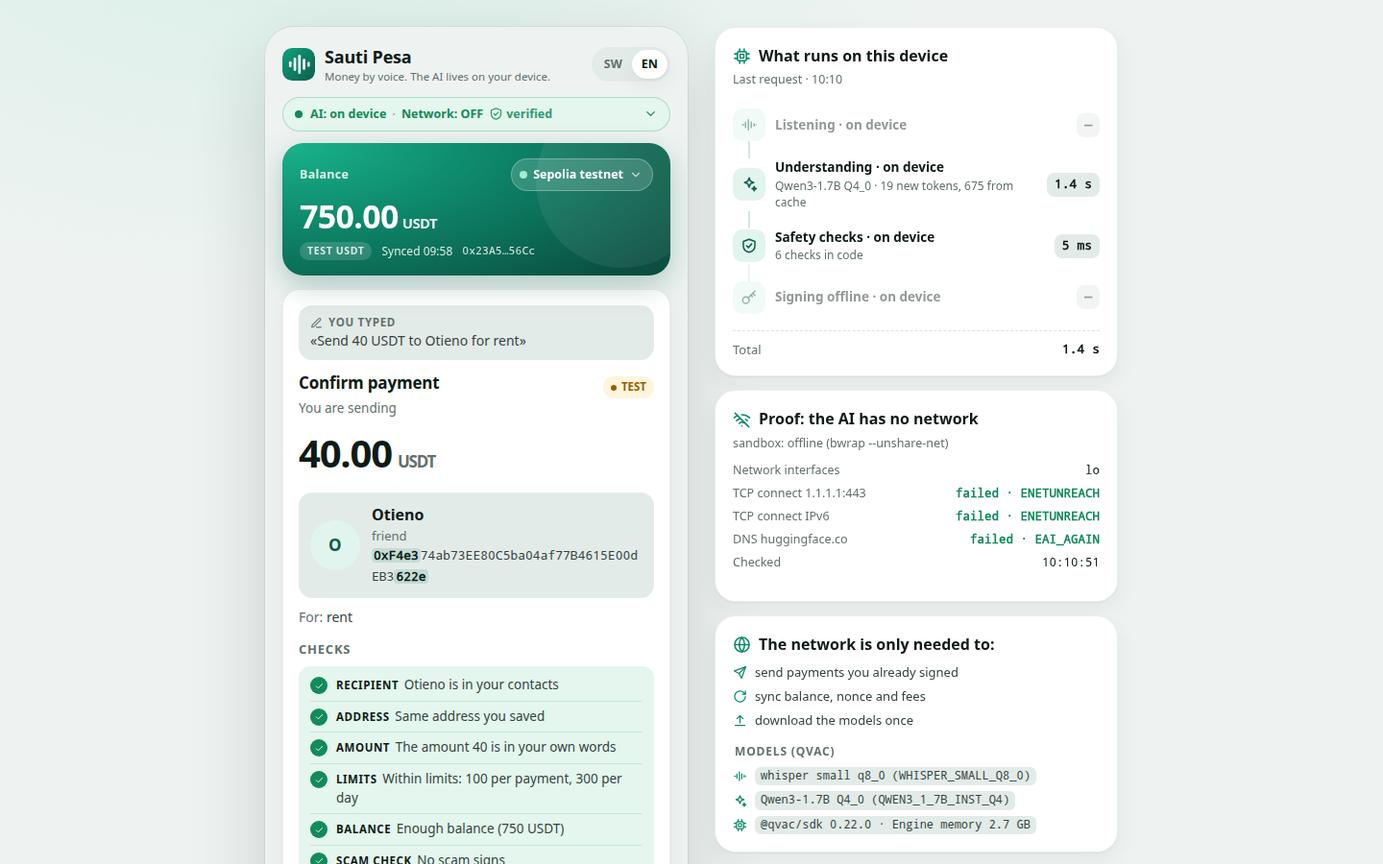
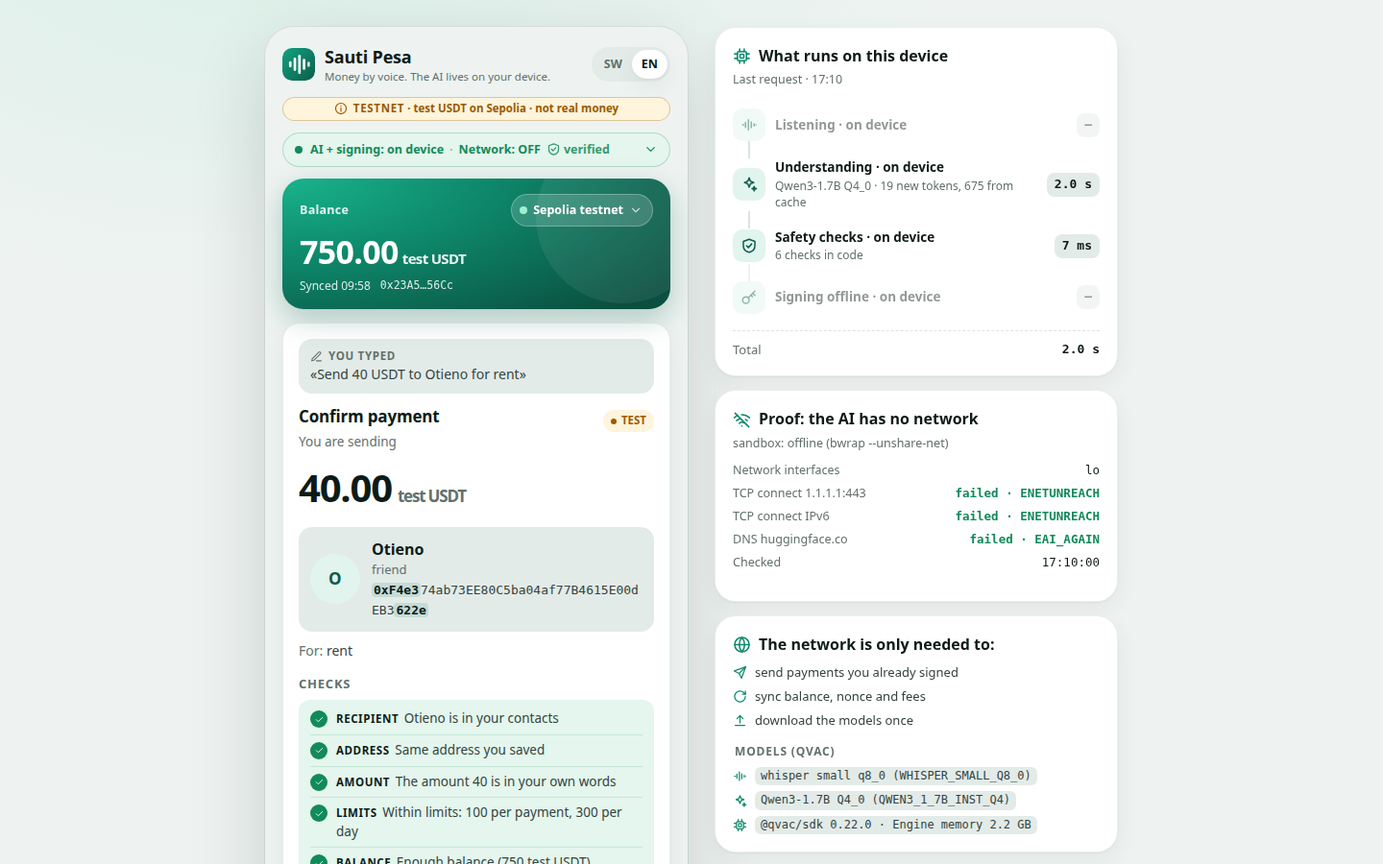
Label test money everywhere; keep offline AI vs online broadcast explicit
- UI: a persistent header badge "TESTNET · test USDT on Sepolia · not real money" (local devnet wording on the
  devnet, taken from the engine status; Swahili too), and every amount reads "test USDT" ("USDT ya majaribio").
- The status pill says "AI + signing: on device"; the confirm card and outbox say only the broadcast needs internet.
- CLI, netsync and broadcast output label amounts "test USDT".
- README: a note near the demo link that every USDT amount (app, video, tx table) is a worthless test token
  (Sepolia test USDT 0xaA8E...33D0, devnet MockUSDT) and that only the broadcast needs internet; the main demo
  link points at the v1.2 labelled cut, v1.0 kept as the original cut.
- Screenshots in docs/ retaken; screenshots.py reloads the page through about:blank (the key-in-fragment
  hardening made a second goto a same-document navigation).

diff --git a/ui/app.js b/ui/app.js
@@ -140,10 +140,23 @@ function renderChrome () {
   document.documentElement.lang = S.lang
   $('tagline').textContent = t('tagline')
   for (const b of $('langSeg').querySelectorAll('button')) b.setAttribute('aria-pressed', String(b.dataset.lang === S.lang))
+  renderTestnet()
   renderPill()
   renderBalance()
   renderTabs()
   renderSide()
+}
+
+// Persistent header badge: every amount in this app is a TEST token on a test network (never real money). The
+// network comes from the engine's status (or the person's saved choice); until it is known, no network is named.
+function renderTestnet () {
+  const el = $('testnet')
+  if (!el) return
+  const net = S.network || S.status?.network?.id || null
+  const sig = `${S.lang}|${net}`
+  if (el.dataset.sig === sig) return
+  el.dataset.sig = sig
+  el.replaceChildren(icon('info'), h('span', null, h('b', { text: t('testnetTag') }), ` · ${t('testnetLine', net)} · ${t('notReal')}`))
 }
 
 function renderPill () {
@@ -187,9 +200,8 @@ function renderBalance () {
       h('span', { class: 'lbl', text: t('balance') }),
       h('button', { class: 'net-chip', id: 'netChip', type: 'button', 'aria-haspopup': 'dialog', 'aria-label': `${t('networkMenu')}: ${t(`net_${netId()}`)}`, onclick: openNetMenu },
         h('span', { class: 'dot' }), t(`net_${netId()}`), icon('chev'))),
-    h('div', { class: 'amt' }, c?.usdt === null || c?.usdt === undefined ? '—' : fmtAmt(c.usdt), h('small', { text: 'USDT' })),
+    h('div', { class: 'amt' }, c?.usdt === null || c?.usdt === undefined ? '—' : fmtAmt(c.usdt), h('small', { text: t('unit') })),
     h('div', { class: 'meta' },
-      h('span', { class: 'badge', text: t('testUsdt') }),
       h('span', { text: c?.syncedAt ? `${t('synced')} ${fmtTime(c.syncedAt)}` : t('neverSynced') }),
       st?.wallet ? h('code', { text: st.wallet.short }) : null)
   )
@@ -442,7 +454,7 @@ function resultView () {
   const passed = v.groups.filter((g) => g.status === 'ok')
   if (v.hardBlock) {
     kids.push(h('div', { class: 'banner bad', style: 'margin-top:12px' }, h('span', { class: 'ic' }, icon('x')), h('div', null, h('b', { text: t('blockedTitle') }), h('span', { text: t('blockedSub') }))))
-    if (v.amount) kids.push(h('div', { class: 'amount-big' }, fmtAmt(v.amount), h('small', { text: 'USDT' })))
+    if (v.amount) kids.push(h('div', { class: 'amount-big' }, fmtAmt(v.amount), h('small', { text: t('unit') })))
     kids.push(payeeNode(v))
     kids.push(h('h3', { text: t('checks') }), h('div', { class: 'groups' }, flagged.map(groupNode)), passedList(passed))
     kids.push(flagsNode(v.scamFlags, v.aiFlags, v.aiNote))
@@ -451,7 +463,7 @@ function resultView () {
   }
   if (v.amountQuestion || v.contactQuestion) {
     kids.push(h('div', { class: 'confirm-top', style: 'margin-top:12px' }, h('h2', { text: t('questionTitle') })))
-    if (v.amount && !v.amountQuestion) kids.push(h('div', { class: 'amount-big' }, fmtAmt(v.amount), h('small', { text: 'USDT' })))
+    if (v.amount && !v.amountQuestion) kids.push(h('div', { class: 'amount-big' }, fmtAmt(v.amount), h('small', { text: t('unit') })))
     if (!v.contactQuestion) kids.push(payeeNode(v))
     if (v.amountQuestion) kids.push(amountQuestionNode(v.amountQuestion))
     else kids.push(contactQuestionNode(v.contactQuestion))
@@ -463,7 +475,7 @@ function resultView () {
   // ready to confirm
   kids.push(h('div', { class: 'confirm-top', style: 'margin-top:12px' }, h('h2', { text: t('confirmTitle') }), h('span', { class: 'status queued', text: t('testBadge') })))
   kids.push(h('div', { class: 'sub', text: t('sending') }))
-  kids.push(h('div', { class: 'amount-big' }, fmtAmt(v.amount), h('small', { text: 'USDT' })))
+  kids.push(h('div', { class: 'amount-big' }, fmtAmt(v.amount), h('small', { text: t('unit') })))
   kids.push(payeeNode(v))
   if (v.memo) kids.push(h('div', { class: 'memo' }, h('span', { text: `${t('forWhat')}: ` }), v.memo))
   kids.push(h('h3', { text: t('checks') }), flagged.length ? h('div', { class: 'groups' }, flagged.map(groupNode)) : null, passedList(passed))
@@ -510,7 +522,7 @@ function amountQuestionNode (q) {
   if (q.kind === 'choose' && !S.F.typeAmount) {
     return h('div', { class: 'question' },
       h('div', { class: 'q', text: t('chooseAmount') }),
-      h('div', { class: 'chips' }, q.amounts.map((a) => h('button', { class: 'chip', type: 'button', onclick: () => doAmend({ amount: a }) }, `${a} USDT`)),
+      h('div', { class: 'chips' }, q.amounts.map((a) => h('button', { class: 'chip', type: 'button', onclick: () => doAmend({ amount: a }) }, `${a} ${t('unit')}`)),
         h('button', { class: 'chip', type: 'button', onclick: () => { S.F.typeAmount = true; renderView() } }, t('noTypeIt'))))
   }
   const inp = h('input', { type: 'text', inputmode: 'decimal', autocomplete: 'off', maxlength: '20', 'aria-label': t('howMuch'), placeholder: '0', onkeydown: (e) => { if (e.key === 'Enter') go() } })
@@ -534,7 +546,7 @@ function signedView () {
     h('h2', { text: t('signedTitle') }),
     h('p', { class: 'sub', text: t('signedSub') }),
     h('dl', { class: 'kv' },
-      h('dt', { text: t('sending') }), h('dd', { text: `${fmtAmt(q.amount)} USDT` }),
+      h('dt', { text: t('sending') }), h('dd', { text: `${fmtAmt(q.amount)} ${t('unit')}` }),
       h('dt', { text: t('to') }), h('dd', { text: `${q.recipientName || ''} ${q.short}` }),
       h('dt', { text: 'nonce' }), h('dd', { text: String(q.nonce) }),
       h('dt', { text: 'tx' }), h('dd', { text: q.hashShort }),
@@ -826,7 +838,7 @@ function outboxView () {
       h('div', { class: 'actions', style: 'flex-wrap:wrap' },
         h('button', { class: 'btn primary', type: 'button', disabled: running || !(waiting || unconfirmed), onclick: () => runNet('broadcast') }, icon('plane'), waiting ? t('sendQueued', waiting) : unconfirmed ? t('checkSent') : t('nothingToSend')),
         h('button', { class: 'btn ghost small', type: 'button', disabled: running, onclick: () => runNet('sync') }, icon('refresh'), t('syncBtn'))),
-      h('div', { class: 'netbadge' }, icon('lock'), h('div', null, h('b', { text: `${t('broadcasterOnline')} · ${t('noKeys')}` }), h('span', { text: t('broadcasterNote') }))),
+      h('div', { class: 'netbadge' }, icon('lock'), h('div', null, h('b', { text: t('broadcastStep') }), h('span', { text: t('broadcasterNote') }))),
       job && job.network === netId() ? h('div', { class: 'joblog' },
         h('div', { class: 'hd' }, h('span', { class: `dot${running ? ' run' : ''}` }), running ? `${t('broadcasterOnline')} · ${job.action}` : `${t('broadcasterDone')} · exit ${job.code}`),
         (job.lines || []).slice(-14).join('\n')) : null
@@ -844,7 +856,7 @@ function obRow (e) {
       h('span', { class: `status ${e.status}`, text: t(`st_${e.status}`) }),
       e.explorer ? h('div', null, h('a', { href: e.explorer, target: '_blank', rel: 'noopener noreferrer' }, t('explorer'), icon('ext'))) : null,
       e.status === 'needs_resign' ? h('button', { class: 'btn small danger', type: 'button', style: 'margin-top:8px', onclick: () => askResign(e) }, icon('key'), t('resignBtn')) : null),
-    h('div', { class: 'amt', text: `${fmtAmt(e.amount)} USDT` }))
+    h('div', { class: 'amt' }, fmtAmt(e.amount), h('small', { text: t('unit') })))
 }
 
 async function runNet (action) {

diff --git a/ui/i18n.js b/ui/i18n.js
@@ -3,7 +3,7 @@
 export const T = {
   sw: {
     tagline: 'Pesa kwa sauti yako. AI iko ndani ya kifaa.',
-    pillAi: 'AI: kwenye kifaa',
+    pillAi: 'AI na kusaini: kwenye kifaa',
     pillNetOff: 'Mtandao: UMEZIMWA',
     pillVerified: 'umethibitishwa',
     pillNetOn: 'Mtandao: UPO',
@@ -11,7 +11,10 @@ export const T = {
     pillDown: 'Injini imesimama',
     pillNoKey: 'Fungua kiungo cha ops/ui.sh',
     balance: 'Salio',
-    testUsdt: 'USDT ya majaribio',
+    unit: 'USDT ya majaribio',
+    testnetTag: 'MAJARIBIO',
+    testnetLine: (net) => (net === 'sepolia' ? 'USDT ya Sepolia' : net === 'devnet' ? 'USDT ya devnet' : 'USDT ya majaribio'),
+    notReal: 'si pesa halisi',
     synced: 'Ilisawazishwa',
     neverSynced: 'Bado haijasawazishwa',
     tabSend: 'Tuma',
@@ -41,7 +44,7 @@ export const T = {
     forWhat: 'Kwa ajili ya',
     checks: 'Ukaguzi',
     newAddress: 'Anwani mpya',
-    needsNet: 'Inahitaji mtandao kutuma',
+    needsNet: 'Kutuma kunahitaji intaneti',
     needsNetSub: 'Tunasaini sasa bila mtandao. Malipo yatatumwa ukipata mtandao.',
     retypeLabel: 'Kiasi kikubwa. Andika kiasi tena ili kuthibitisha:',
     retypeMismatch: 'Kiasi hakilingani na ombi.',
@@ -51,8 +54,8 @@ export const T = {
     blockedSub: 'Hakuna kilichotumwa wala kusainiwa.',
     okGotIt: 'Sawa, nimeelewa',
     questionTitle: 'Swali moja kabla ya kuendelea',
-    didYouMeanAmount: (n) => `Ulimaanisha ${n} USDT?`,
-    yesAmount: (n) => `Ndiyo, ${n} USDT`,
+    didYouMeanAmount: (n) => `Ulimaanisha ${n} USDT ya majaribio?`,
+    yesAmount: (n) => `Ndiyo, ${n} USDT ya majaribio`,
     noTypeIt: 'Hapana, nitaandika',
     howMuch: 'Ni kiasi gani cha USDT?',
     continueBtn: 'Endelea',
@@ -64,7 +67,7 @@ export const T = {
     viewOutbox: 'Fungua foleni',
     newPayment: 'Malipo mapya',
     startOver: 'Anza upya',
-    balanceAnswer: (b, t) => (b === null ? 'Salio halijulikani bado: sawazisha ukipata mtandao.' : `Salio lako ni ${b} USDT (usawazishaji wa ${t}).`),
+    balanceAnswer: (b, t) => (b === null ? 'Salio halijulikani bado: sawazisha ukipata mtandao.' : `Salio lako ni ${b} USDT ya majaribio (usawazishaji wa ${t}).`),
     checkSuggest: 'Kukagua ujumbe, fungua kichupo cha «Kagua».',
     unknownAction: 'Sikuelewa ombi hili. Jaribu: «Tuma USDT 20 kwa Amina».',
     notUnderstood: 'Sikuweza kuelewa ombi kwa usalama.',
@@ -89,9 +92,10 @@ export const T = {
     broadcasterOnline: 'Kitumaji: mtandaoni',
     broadcasterDone: 'Kitumaji kimemaliza',
     noKeys: 'hakina funguo',
+    broadcastStep: 'Kutuma pekee kunahitaji intaneti',
     explorer: 'Tazama kwenye explorer',
     resignBtn: 'Saini tena',
-    resignConfirm: (a, n) => `Saini tena ${a} USDT kwa ${n}? Nonce ya awali imetumiwa na muamala mwingine, kwa hiyo malipo haya hayakufika.`,
+    resignConfirm: (a, n) => `Saini tena ${a} USDT ya majaribio kwa ${n}? Nonce ya awali imetumiwa na muamala mwingine, kwa hiyo malipo haya hayakufika.`,
     emptyOutbox: 'Hakuna malipo kwenye foleni bado.',
     signedOfflineTag: 'imesainiwa bila mtandao',
     block: 'bloku',
@@ -163,7 +167,7 @@ export const T = {
   },
   en: {
     tagline: 'Money by voice. The AI lives on your device.',
-    pillAi: 'AI: on device',
+    pillAi: 'AI + signing: on device',
     pillNetOff: 'Network: OFF',
     pillVerified: 'verified',
     pillNetOn: 'Network: ON',
@@ -171,7 +175,10 @@ export const T = {
     pillDown: 'Engine stopped',
     pillNoKey: 'Open the link from ops/ui.sh',
     balance: 'Balance',
-    testUsdt: 'test USDT',
+    unit: 'test USDT',
+    testnetTag: 'TESTNET',
+    testnetLine: (net) => (net === 'sepolia' ? 'test USDT on Sepolia' : net === 'devnet' ? 'test USDT on a local devnet' : 'test USDT'),
+    notReal: 'not real money',
     synced: 'Synced',
     neverSynced: 'Not synced yet',
     tabSend: 'Send',
@@ -201,7 +208,7 @@ export const T = {
     forWhat: 'For',
     checks: 'Checks',
     newAddress: 'New address',
-    needsNet: 'Needs network to send',
+    needsNet: 'Broadcast needs internet',
     needsNetSub: 'We sign now, offline. The payment goes out when you are back online.',
     retypeLabel: 'Large amount. Type the amount again to confirm:',
     retypeMismatch: 'The amount does not match the request.',
@@ -211,8 +218,8 @@ export const T = {
     blockedSub: 'Nothing was signed or sent.',
     okGotIt: 'OK, got it',
     questionTitle: 'One question before we continue',
-    didYouMeanAmount: (n) => `Did you mean ${n} USDT?`,
-    yesAmount: (n) => `Yes, ${n} USDT`,
+    didYouMeanAmount: (n) => `Did you mean ${n} test USDT?`,
+    yesAmount: (n) => `Yes, ${n} test USDT`,
     noTypeIt: 'No, I will type it',
     howMuch: 'How much USDT?',
     continueBtn: 'Continue',
@@ -224,7 +231,7 @@ export const T = {
     viewOutbox: 'Open outbox',
     newPayment: 'New payment',
     startOver: 'Start over',
-    balanceAnswer: (b, t) => (b === null ? 'Balance not known yet: sync when you are online.' : `Your balance is ${b} USDT (as of the ${t} sync).`),
+    balanceAnswer: (b, t) => (b === null ? 'Balance not known yet: sync when you are online.' : `Your balance is ${b} test USDT (as of the ${t} sync).`),
     checkSuggest: 'To check a message, open the “Check” tab.',
     unknownAction: 'I did not understand. Try: “Send 20 USDT to Amina”.',
     notUnderstood: 'I could not understand the request safely.',
@@ -249,9 +256,10 @@ export const T = {
     broadcasterOnline: 'Sender: online',
     broadcasterDone: 'Sender finished',
     noKeys: 'no keys',
+    broadcastStep: 'Only the broadcast needs internet',
     explorer: 'View on explorer',
     resignBtn: 'Sign again',
-    resignConfirm: (a, n) => `Sign ${a} USDT to ${n} again? Its nonce was used by another transaction, so this payment never went through.`,
+    resignConfirm: (a, n) => `Sign ${a} test USDT to ${n} again? Its nonce was used by another transaction, so this payment never went through.`,
     emptyOutbox: 'No payments in the outbox yet.',
     signedOfflineTag: 'signed offline',
     block: 'block',

diff --git a/src/i18n.js b/src/i18n.js
@@ -9,9 +9,9 @@ const L = {
   missing_amount: { sw: 'Sikusikia kiasi. Sema au andika kiasi cha USDT.', en: 'I did not catch an amount. Say or type how much USDT.' },
   amount_not_heard: { sw: 'Sikusikia kiasi kwenye maneno yako. Sema au andika kiasi kwa tarakimu (k.m. 20).', en: 'I could not find an amount in your words. Say or type it in digits (e.g. 20).' },
   amount_not_in_request: { sw: (d) => `Kiasi ${d.amount} hakikuwa kwenye ombi lako. Rudia ombi.`, en: (d) => `The amount ${d.amount} was not in your request. Please repeat it.` },
-  over_tx_limit: { sw: (d) => `Zaidi ya kikomo chako cha malipo moja (${d.limit} USDT).`, en: (d) => `Above your per-payment limit (${d.limit} USDT).` },
-  over_daily_limit: { sw: (d) => `Utazidi kikomo cha siku (${d.limit} USDT; umeshatuma ${d.spent}).`, en: (d) => `This would pass your daily limit (${d.limit} USDT; already ${d.spent}).` },
-  insufficient_balance: { sw: (d) => `Salio halitoshi (${d.balance} USDT kwa mujibu wa usawazishaji wa mwisho).`, en: (d) => `Not enough balance (${d.balance} USDT at the last sync).` },
+  over_tx_limit: { sw: (d) => `Zaidi ya kikomo chako cha malipo moja (${d.limit} USDT ya majaribio).`, en: (d) => `Above your per-payment limit (${d.limit} test USDT).` },
+  over_daily_limit: { sw: (d) => `Utazidi kikomo cha siku (${d.limit} USDT ya majaribio; umeshatuma ${d.spent}).`, en: (d) => `This would pass your daily limit (${d.limit} test USDT; already ${d.spent}).` },
+  insufficient_balance: { sw: (d) => `Salio halitoshi (${d.balance} USDT ya majaribio kwa mujibu wa usawazishaji wa mwisho).`, en: (d) => `Not enough balance (${d.balance} test USDT at the last sync).` },
   balance_unknown: { sw: 'Salio halijulikani (hakuna mtandao). Litaangaliwa kabla ya kutuma.', en: 'Balance unknown (offline). It is checked before sending.' },
   retype_amount: { sw: (d) => `Kiasi kikubwa: andika ${d.amount} tena kuthibitisha.`, en: (d) => `Large amount: type ${d.amount} again to confirm.` },
   missing_recipient: { sw: 'Sikusikia unamtumia nani.', en: 'I did not catch who to pay.' },
@@ -31,7 +31,7 @@ const L = {
     en: (d) => `DANGER: this address looks like ${d.similarTo ? `${d.similarTo}'s` : 'one you paid before'} (${shortAddr(d.similarAddress)}) but is NOT the same. This is an address-poisoning trick.`
   },
   new_recipient: { sw: 'Hujawahi kumtumia mtu huyu. Hakikisha anwani kwa simu.', en: 'You have never paid this address. Confirm it by phone.' },
-  new_recipient_over_limit: { sw: (d) => `Malipo ya kwanza kwa anwani mpya yamezuiliwa juu ya ${d.limit} USDT. Tuma kiasi kidogo kwanza.`, en: (d) => `First payments to a new address are capped at ${d.limit} USDT. Send a small test first.` },
+  new_recipient_over_limit: { sw: (d) => `Malipo ya kwanza kwa anwani mpya yamezuiliwa juu ya ${d.limit} USDT ya majaribio. Tuma kiasi kidogo kwanza.`, en: (d) => `First payments to a new address are capped at ${d.limit} test USDT. Send a small test first.` },
   scam_high: { sw: 'Ombi lina dalili kali za utapeli. Malipo yamezuiliwa.', en: 'This request shows strong scam signs. Payment blocked.' },
   scam_signals: { sw: 'Ombi lina dalili za utapeli. Soma maonyo kabla ya kuthibitisha.', en: 'This request shows scam signs. Read the warnings before confirming.' }
 }
@@ -69,6 +69,6 @@ export function confirmationText ({ intent, recipient, decision }, lang, feeNote
   if (decision === 'blocked') return lang === 'sw' ? 'Malipo hayawezi kuendelea:' : 'This payment cannot go ahead:'
   const fee = feeNote ? ` ${feeNote}` : ''
   return lang === 'sw'
-    ? `Unatuma ${intent.amount} USDT (test) kwa ${who}${memo}.${fee} Thibitisha? (ndiyo/hapana)`
-    : `You are sending ${intent.amount} USDT (test) to ${who}${memo}.${fee} Confirm? (yes/no)`
+    ? `Unatuma ${intent.amount} USDT ya majaribio kwa ${who}${memo}.${fee} Thibitisha? (ndiyo/hapana)`
+    : `You are sending ${intent.amount} test USDT to ${who}${memo}.${fee} Confirm? (yes/no)`
 }

diff --git a/ui/app.css b/ui/app.css
@@ -44,8 +44,12 @@ button { cursor: pointer; }
 .side { display: none; }
 
 /* header */
-.top { display: flex; align-items: center; justify-content: space-between; gap: 10px; }
-.brand { display: flex; align-items: center; gap: 10px; min-width: 0; }
+.top { display: flex; align-items: center; justify-content: space-between; gap: 10px; flex-wrap: wrap; }
+/* persistent test-money badge: every amount here is a test token on a test network */
+.testnet { flex-basis: 100%; display: flex; align-items: center; justify-content: center; gap: 6px; margin-top: 2px; padding: 4px 10px; border-radius: 14px; background: var(--warn-soft); color: var(--warn); border: 1px solid color-mix(in srgb, var(--warn) 30%, transparent); font-size: 11.5px; font-weight: 650; line-height: 1.3; text-align: center; }
+.testnet b { font-weight: 800; letter-spacing: .06em; }
+.testnet svg { width: 14px; height: 14px; flex: none; }
+.brand { display: flex; align-items: center; gap: 10px; min-width: 0; flex: 1 1 0; } /* shrinks (ellipsis) instead of pushing the language switch to a new line */
 .brand img { border-radius: 10px; flex: none; }
 .brand-name { font-weight: 750; font-size: 18px; letter-spacing: -.01em; }
 .brand-tag { font-size: 11.5px; color: var(--muted); white-space: nowrap; overflow: hidden; text-overflow: ellipsis; }
@@ -240,6 +244,7 @@ button { cursor: pointer; }
 .ob .nm { font-weight: 700; }
 .ob .meta { font-size: 12px; color: var(--muted); font-family: var(--mono); overflow: hidden; text-overflow: ellipsis; white-space: nowrap; }
 .ob .amt { font-weight: 800; font-variant-numeric: tabular-nums; text-align: right; white-space: nowrap; }
+.ob .amt small { display: block; font-size: 11px; font-weight: 650; color: var(--muted); }
 .status { display: inline-flex; align-items: center; gap: 5px; font-size: 11.5px; font-weight: 750; padding: 3px 8px; border-radius: 999px; margin-top: 4px; white-space: nowrap; }
 .status::before { content: ""; width: 6px; height: 6px; border-radius: 50%; background: currentColor; }
 .status.queued { background: var(--warn-soft); color: var(--warn); }

diff --git a/test/core.test.js b/test/core.test.js
@@ -206,6 +206,6 @@ test('model flags can raise risk but unknown ids are ignored', () => {
 
 test('confirmation text in both languages', () => {
   const r = checkSend({ ...base, intent: intent({ memo: 'kodi' }), transcript: 'Tuma USDT ishirini kwa Amina' })
-  assert.match(confirmationText({ intent: intent({ memo: 'kodi' }), recipient: r.recipient, decision: r.decision }, 'sw'), /^Unatuma 20 USDT \(test\) kwa Amina \(0x/)
-  assert.match(confirmationText({ intent: intent(), recipient: r.recipient, decision: r.decision }, 'en'), /^You are sending 20 USDT/)
+  assert.match(confirmationText({ intent: intent({ memo: 'kodi' }), recipient: r.recipient, decision: r.decision }, 'sw'), /^Unatuma 20 USDT ya majaribio kwa Amina \(0x/)
+  assert.match(confirmationText({ intent: intent(), recipient: r.recipient, decision: r.decision }, 'en'), /^You are sending 20 test USDT/)
 })

diff --git a/src/view.js b/src/view.js
@@ -34,7 +34,7 @@ const PASSED = {
   address: { sw: (v) => (v.saved ? 'Anwani ni ile ile uliyohifadhi' : 'Anwani ni sahihi (checksum)'), en: (v) => (v.saved ? 'Same address you saved' : 'Address is valid (checksum)') },
   amount: { sw: (v) => `Kiasi ${v.amount} kimo kwenye maneno yako`, en: (v) => `The amount ${v.amount} is in your own words` },
   limits: { sw: (v) => `Ndani ya vikomo: ${v.perTx} kwa malipo, ${v.perDay} kwa siku`, en: (v) => `Within limits: ${v.perTx} per payment, ${v.perDay} per day` },
-  balance: { sw: (v) => `Salio linatosha (${v.balance} USDT)`, en: (v) => `Enough balance (${v.balance} USDT)` },
+  balance: { sw: (v) => `Salio linatosha (${v.balance} USDT ya majaribio)`, en: (v) => `Enough balance (${v.balance} test USDT)` },
   scam: { sw: () => 'Hakuna dalili za utapeli', en: () => 'No scam signs' }
 }
 

diff --git a/src/broadcast.js b/src/broadcast.js
@@ -103,7 +103,7 @@ export async function broadcastQueue ({ rpc, store, chainId, address, explorer =
     }
     store.update(e.id, { status: 'broadcast', broadcastAt: e.broadcastAt || now(), error: null })
     out.sent++
-    log(`broadcast ${e.hash}  ${e.amount} USDT -> ${e.recipientName || e.to}${explorer ? `  ${explorer}${e.hash}` : ''}`)
+    log(`broadcast ${e.hash}  ${e.amount} test USDT -> ${e.recipientName || e.to}${explorer ? `  ${explorer}${e.hash}` : ''}`)
     const r = await waitReceipt(e.hash)
     if (r) mined(e, r); else { out.unknown++; log('  no receipt yet; run broadcast/status again later') }
   }

diff --git a/ui/index.html b/ui/index.html
@@ -28,6 +28,7 @@
           <button type="button" data-lang="en">EN</button>
         </div>
       </div>
+      <div class="testnet" id="testnet" role="note"></div>
     </header>
     <button class="pill" id="pill" type="button"></button>
     <section class="balance" id="balance"></section>

diff --git a/scripts/demo/screenshots.py b/scripts/demo/screenshots.py
@@ -29,8 +29,12 @@ RESULT = "!!document.querySelector('.amount-big') || !!document.querySelector('.
 
 
 def fresh(t, lang):
+    # the page drops the key from the address bar, so going to URL again would only change the #fragment (no
+    # reload): pass through about:blank to load the app from scratch each time
+    t.goto("about:blank", 0.3)
     t.goto(URL, 1.0)
     t.js(f"localStorage.setItem('sauti.network', '{a.network}'); localStorage.setItem('sauti.lang', '{lang}'); true")
+    t.goto("about:blank", 0.3)
     t.goto(URL, 1.5)
     t.wait_js(READY, 90)
     t.pump(0.8)

diff --git a/README.md b/README.md
@@ -20,16 +20,27 @@ Track: **Agentic finance with WDK** · AI Yako: Own Your AI (Tether QVAC) · bui
 <details>
 <summary>More screens (390 px): home, look-alike address blocked, message check, outbox</summary>
 <p>
-  <img src="docs/ui-mobile-home.png" alt="Home: status pill, balance card, big mic button, text box and contacts" width="200">
+  <img src="docs/ui-mobile-home.png" alt="Home: test-token badge, status pill, balance card, big mic button, text box and contacts" width="200">
   <img src="docs/ui-mobile-blocked.png" alt="A look-alike of Amina's address is blocked as address poisoning" width="200">
   <img src="docs/ui-mobile-check.png" alt="Message check: a Swahili prize SMS rated high risk, with reasons" width="200">
   <img src="docs/ui-mobile-outbox.png" alt="Outbox: payments signed offline, broadcast and confirmed, with explorer links" width="200">
 </p>
 </details>
 
-**Demo video (internet off): [sauti-pesa-demo.mp4](https://github.com/swiftbotlab/sauti-pesa/releases/download/v1.0/sauti-pesa-demo.mp4)** · captions ([.srt](https://github.com/swiftbotlab/sauti-pesa/releases/download/v1.0/sauti-pesa-demo.srt)) + English voice-over, 2:57.
+**Demo video (internet off): [sauti-pesa-demo-v1.2.mp4](https://github.com/swiftbotlab/sauti-pesa/releases/download/v1.2/sauti-pesa-demo-v1.2.mp4)** · captions ([.srt](https://github.com/swiftbotlab/sauti-pesa/releases/download/v1.2/sauti-pesa-demo-v1.2.srt)) + English voice-over, 3:05.
+The same recording as the [original cut](https://github.com/swiftbotlab/sauti-pesa/releases/download/v1.0/sauti-pesa-demo.mp4) (2:57 + a 5 s offline-proof card), with a
+test-token label on screen the whole time and a 3 s opening card that says what is tested.
 Recorded before the final hardening pass. Since then `ops/ui.sh` prints a link that carries a per-launch key, and
 the page needs that link; the payment flows in the video behave the same.
+
+> [!NOTE]
+> **Test money only.** Every USDT amount in the app, the video and the transaction table below is a **test token
+> worth nothing**, not Tether's USDT: on Sepolia the 6-decimal test USDT
+> [`0xaA8E23Fb1079EA71e0a56F48a2aA51851D8433D0`](https://eth-sepolia.blockscout.com/token/0xaA8E23Fb1079EA71e0a56F48a2aA51851D8433D0)
+> (listed in the WDK docs for testnets), on the local devnet our own [`contracts/MockUSDT.sol`](contracts/MockUSDT.sol).
+> The app labels every amount "test USDT" and shows a "TESTNET · not real money" badge.
+> **Offline vs online:** speech to text, intent, the scam and safety checks and the signing all run **offline** on
+> the device. Only the broadcast of payments that are already signed needs the internet.
 
 **Supplementary 1-min clip: [check a scam screenshot offline](https://github.com/swiftbotlab/sauti-pesa/releases/download/v1.1/sauti-pesa-screenshot-check.mp4)** · QVAC OCR on the device, three Swahili test screenshots (two scams, one with a look-alike address, and one genuine message), English captions, 1:08.
 
@@ -70,8 +81,11 @@ school in USDT, and wants a second pair of eyes that works offline and never sen
   OCR reads the text on the device), and get a Swahili or English risk explanation, including look-alike address
   detection against your own contacts. The text read from the image goes through exactly the same checks as pasted
   text and is shown to the person, who can correct it.
-- **Status pill, always on screen:** "AI: on device · Network: OFF (verified)". It is backed by a live probe
-  (interfaces, TCP, DNS), not a setting.
+- **Status pill, always on screen:** "AI + signing: on device · Network: OFF (verified)". It is backed by a live
+  probe (interfaces, TCP, DNS), not a setting. The confirm card and the outbox say that only the broadcast needs
+  internet.
+- **Test money, labelled:** a header badge "TESTNET · test USDT on Sepolia · not real money" (or "on a local
+  devnet"), and every amount reads "test USDT", in the app and in the CLI output.
 - **Re-sign** a queued payment whose nonce was used elsewhere (after checking on-chain that it was not mined).
 - Mobile-first web UI (390 px and desktop), Swahili first, no external fonts or CDNs. Also a full CLI (`bin/sauti.mjs`).
 
